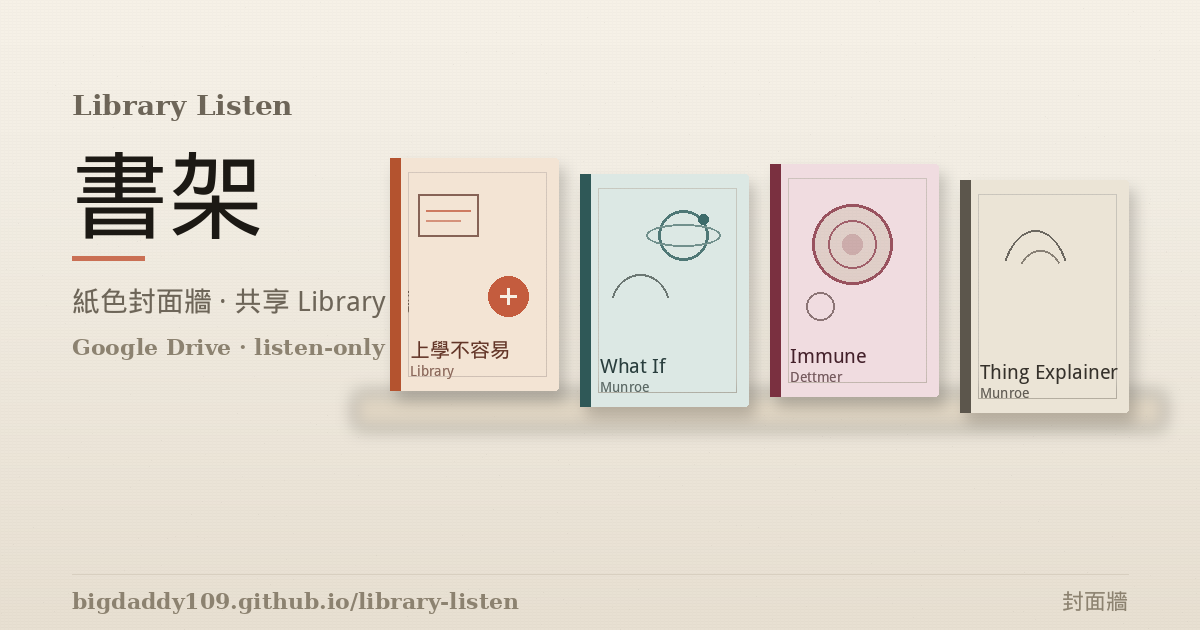
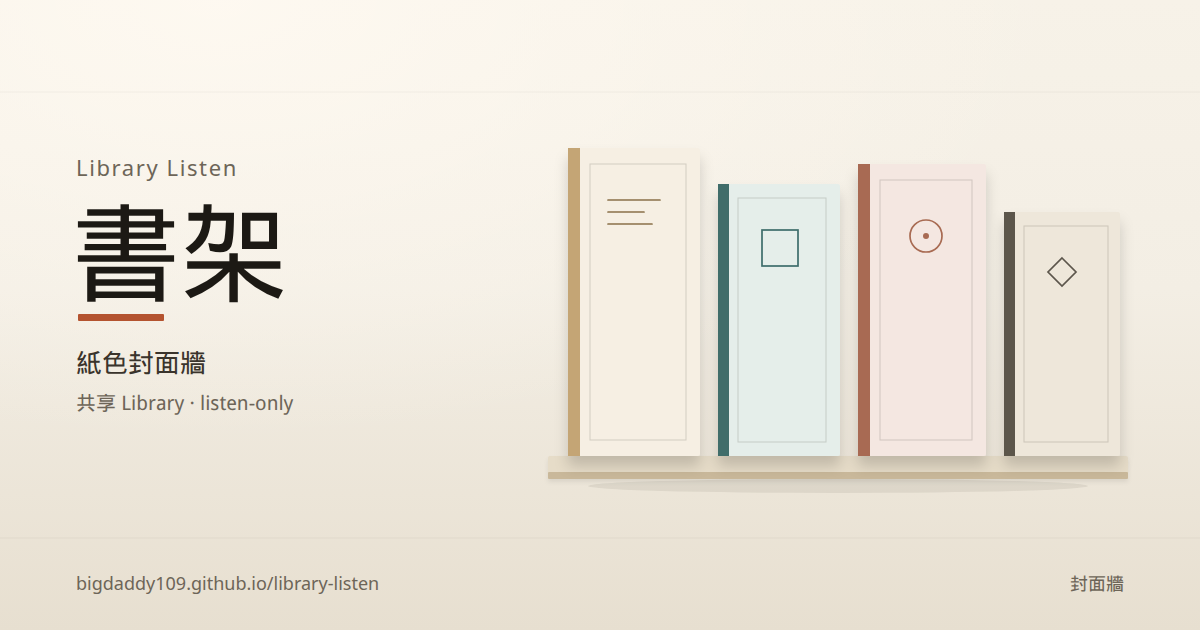
Use a generic untitled OG preview and a one-line image URL (v49) (#46)
The share image keeps the rice-paper shelf and drops book titles. Home, classic, and shelf put the absolute og:image and twitter:image on a single line so crawlers that miss split tags still see the URL.

diff --git a/docs/classic/index.html b/docs/classic/index.html
@@ -12,29 +12,20 @@
       content="Library Listen — classic dark player. The bookshelf homepage is one level up."
     />
     <meta property="og:title" content="Library Listen · Classic" />
-    <meta
-      property="og:description"
-      content="Library Listen — classic dark player. The bookshelf homepage is one level up."
-    />
-    <meta
-      property="og:image"
-      content="https://bigdaddy109.github.io/library-listen/og-image.png"
-    />
+    <meta property="og:description" content="Library Listen — classic dark player. The bookshelf homepage is one level up." />
+    <meta property="og:image" content="https://bigdaddy109.github.io/library-listen/og-image.png" />
     <meta property="og:image:width" content="1200" />
     <meta property="og:image:height" content="630" />
     <meta name="twitter:card" content="summary_large_image" />
-    <meta
-      name="twitter:image"
-      content="https://bigdaddy109.github.io/library-listen/og-image.png"
-    />
+    <meta name="twitter:image" content="https://bigdaddy109.github.io/library-listen/og-image.png" />
     <meta name="apple-mobile-web-app-capable" content="yes" />
     <meta name="mobile-web-app-capable" content="yes" />
     <meta name="apple-mobile-web-app-status-bar-style" content="black-translucent" />
     <meta name="apple-mobile-web-app-title" content="Library Listen" />
     <link rel="manifest" href="../manifest.webmanifest" />
-    <link rel="icon" href="../icon.svg?v=48" type="image/svg+xml" />
-    <link rel="apple-touch-icon" href="../apple-touch-icon.png?v=48" />
-    <link rel="stylesheet" href="../styles.css?v=48" />
+    <link rel="icon" href="../icon.svg?v=49" type="image/svg+xml" />
+    <link rel="apple-touch-icon" href="../apple-touch-icon.png?v=49" />
+    <link rel="stylesheet" href="../styles.css?v=49" />
     <title>Library Listen · Classic</title>
   </head>
   <body data-shell="classic">
@@ -43,7 +34,7 @@
         <div class="brand">
           <img
             class="brand-mark"
-            src="../icon.svg?v=48"
+            src="../icon.svg?v=49"
             width="36"
             height="36"
             alt="Library Listen"
@@ -263,6 +254,6 @@
         </div>
       </div>
     </div>
-    <script type="module" src="../app.js?v=48"></script>
+    <script type="module" src="../app.js?v=49"></script>
   </body>
 </html>

diff --git a/docs/index.html b/docs/index.html
@@ -12,30 +12,21 @@
       content="Library Listen — rice-paper bookshelf. Sign in with Google to play from the shared Library folder."
     />
     <meta property="og:title" content="書架 · Library Listen" />
-    <meta
-      property="og:description"
-      content="紙色封面牆。用 Google 登入聽共享的 Library 資料夾，或改用本機檔案。"
-    />
-    <meta
-      property="og:image"
-      content="https://bigdaddy109.github.io/library-listen/og-image.png"
-    />
+    <meta property="og:description" content="紙色封面牆。用 Google 登入聽共享的 Library 資料夾，或改用本機檔案。" />
+    <meta property="og:image" content="https://bigdaddy109.github.io/library-listen/og-image.png" />
     <meta property="og:image:width" content="1200" />
     <meta property="og:image:height" content="630" />
     <meta name="twitter:card" content="summary_large_image" />
-    <meta
-      name="twitter:image"
-      content="https://bigdaddy109.github.io/library-listen/og-image.png"
-    />
+    <meta name="twitter:image" content="https://bigdaddy109.github.io/library-listen/og-image.png" />
     <meta name="apple-mobile-web-app-capable" content="yes" />
     <meta name="mobile-web-app-capable" content="yes" />
     <meta name="apple-mobile-web-app-status-bar-style" content="default" />
     <meta name="apple-mobile-web-app-title" content="書架" />
     <link rel="manifest" href="./manifest.webmanifest" />
-    <link rel="icon" href="./icon.svg?v=48" type="image/svg+xml" />
-    <link rel="apple-touch-icon" href="./apple-touch-icon.png?v=48" />
-    <link rel="stylesheet" href="./styles.css?v=48" />
-    <link rel="stylesheet" href="./shelf/shelf.css?v=48" />
+    <link rel="icon" href="./icon.svg?v=49" type="image/svg+xml" />
+    <link rel="apple-touch-icon" href="./apple-touch-icon.png?v=49" />
+    <link rel="stylesheet" href="./styles.css?v=49" />
+    <link rel="stylesheet" href="./shelf/shelf.css?v=49" />
     <title>書架 · Library Listen</title>
   </head>
   <body class="shell-shelf" data-shell="shelf">
@@ -254,6 +245,6 @@
       </div>
     </div>
     <button type="button" id="btn-sort" class="hidden" hidden title="Sort shelf">Sort</button>
-    <script type="module" src="./app.js?v=48"></script>
+    <script type="module" src="./app.js?v=49"></script>
   </body>
 </html>

diff --git a/docs/app.js b/docs/app.js
@@ -1,4 +1,4 @@
-import { IMMUNE_CARDS } from "./immune-cards.js?v=48";
+import { IMMUNE_CARDS } from "./immune-cards.js?v=49";
 import {
   AUDIO_EXT,
   EPUB_EXT,
@@ -17,7 +17,7 @@ import {
   chapterProgress,
   saveProgress,
   shelfBadge,
-} from "./library.js?v=48";
+} from "./library.js?v=49";
 import {
   DRIVE_UNAUTHORIZED_MESSAGE,
   attachDriveMedia,
@@ -42,7 +42,7 @@ import {
   signInWithGoogle,
   signOutGoogle,
   sourceDialogActions,
-} from "./drive.js?v=48";
+} from "./drive.js?v=49";
 import {
   chapterHitLine,
   emptySearchMessage,
@@ -50,7 +50,7 @@ import {
   matchingChapterTitles,
   shelfCountLabel,
   trimQuery,
-} from "./search.js?v=48";
+} from "./search.js?v=49";
 import {
   applyAudiobookMarkers,
   chapterIndexAtTime,
@@ -65,17 +65,17 @@ import {
   resumeFileSeconds,
   snapshotChapter,
   uniqueChapterFiles,
-} from "./markers.js?v=48";
-import { shouldOfferSaveWhileListening } from "./save-prompt.js?v=48";
-import { demoCatalog, seriesMeta } from "./shelf/catalog.js?v=48";
-import { coverSvg } from "./shelf/covers.js?v=48";
-import { isIOSDevice, lockScreenActions, svgCoverToPngUrl, ARTWORK_SIZE } from "./media-session.js?v=48";
+} from "./markers.js?v=49";
+import { shouldOfferSaveWhileListening } from "./save-prompt.js?v=49";
+import { demoCatalog, seriesMeta } from "./shelf/catalog.js?v=49";
+import { coverSvg } from "./shelf/covers.js?v=49";
+import { isIOSDevice, lockScreenActions, svgCoverToPngUrl, ARTWORK_SIZE } from "./media-session.js?v=49";
 import {
   closeRiceBook,
   initRiceShelf,
   isRiceShelfPage,
   setRiceShelfLibrary,
-} from "./shelf/shelf.js?v=48";
+} from "./shelf/shelf.js?v=49";
 
 const SORT_KEY = "librarylisten.shelfSort";
 const RATE_KEY = "librarylisten.rate";

diff --git a/docs/shelf/index.html b/docs/shelf/index.html
@@ -10,25 +10,16 @@
     <meta name="theme-color" content="#f3eee4" />
     <meta name="description" content="書架已移到 Library Listen 首頁。" />
     <meta property="og:title" content="書架 · Library Listen" />
-    <meta
-      property="og:description"
-      content="紙色封面牆。用 Google 登入聽共享的 Library 資料夾，或改用本機檔案。"
-    />
-    <meta
-      property="og:image"
-      content="https://bigdaddy109.github.io/library-listen/og-image.png"
-    />
+    <meta property="og:description" content="紙色封面牆。用 Google 登入聽共享的 Library 資料夾，或改用本機檔案。" />
+    <meta property="og:image" content="https://bigdaddy109.github.io/library-listen/og-image.png" />
     <meta property="og:image:width" content="1200" />
     <meta property="og:image:height" content="630" />
     <meta name="twitter:card" content="summary_large_image" />
-    <meta
-      name="twitter:image"
-      content="https://bigdaddy109.github.io/library-listen/og-image.png"
-    />
+    <meta name="twitter:image" content="https://bigdaddy109.github.io/library-listen/og-image.png" />
     <link rel="manifest" href="../manifest.webmanifest" />
-    <link rel="icon" href="../icon.svg?v=48" type="image/svg+xml" />
-    <link rel="apple-touch-icon" href="../apple-touch-icon.png?v=48" />
-    <link rel="stylesheet" href="./shelf.css?v=48" />
+    <link rel="icon" href="../icon.svg?v=49" type="image/svg+xml" />
+    <link rel="apple-touch-icon" href="../apple-touch-icon.png?v=49" />
+    <link rel="stylesheet" href="./shelf.css?v=49" />
     <title>書架 · Library Listen</title>
     <script>
       location.replace("../");

diff --git a/docs/sw.js b/docs/sw.js
@@ -1,5 +1,5 @@
 /* Shell-only cache. Audiobook files are never cached here. */
-const CACHE = "library-listen-shell-v48";
+const CACHE = "library-listen-shell-v49";
 const DRIVE_MEDIA_PREFIX = "/drive-media/";
 const DRIVE_TOKEN_MESSAGE = "librarylisten.drive-token";
 const DRIVE_UNAUTHORIZED_MESSAGE = "librarylisten.drive-unauthorized";
@@ -15,26 +15,26 @@ self.addEventListener("message", (event) => {
 const ASSETS = [
   "./",
   "./index.html",
-  "./styles.css?v=48",
-  "./app.js?v=48",
-  "./library.js?v=48",
-  "./drive.js?v=48",
-  "./search.js?v=48",
-  "./markers.js?v=48",
-  "./save-prompt.js?v=48",
-  "./media-session.js?v=48",
-  "./epub.js?v=48",
-  "./immune-cards.js?v=48",
+  "./styles.css?v=49",
+  "./app.js?v=49",
+  "./library.js?v=49",
+  "./drive.js?v=49",
+  "./search.js?v=49",
+  "./markers.js?v=49",
+  "./save-prompt.js?v=49",
+  "./media-session.js?v=49",
+  "./epub.js?v=49",
+  "./immune-cards.js?v=49",
   "./manifest.webmanifest",
-  "./icon.svg?v=48",
-  "./apple-touch-icon.png?v=48",
+  "./icon.svg?v=49",
+  "./apple-touch-icon.png?v=49",
   "./og-image.png",
   "./classic/index.html",
   "./shelf/index.html",
-  "./shelf/shelf.css?v=48",
-  "./shelf/shelf.js?v=48",
-  "./shelf/catalog.js?v=48",
-  "./shelf/covers.js?v=48",
+  "./shelf/shelf.css?v=49",
+  "./shelf/shelf.js?v=49",
+  "./shelf/catalog.js?v=49",
+  "./shelf/covers.js?v=49",
   "./concepts/immune/skin.jpg",
   "./concepts/immune/bacteria.jpg",
   "./concepts/immune/inflammation.jpg",

diff --git a/docs/shelf/shelf.js b/docs/shelf/shelf.js
@@ -7,8 +7,8 @@ import {
   extOf,
   isBookPlayable,
   shelfBadge,
-} from "../library.js?v=48";
-import { matchingChapterTitles, chapterHitLine, trimQuery } from "../search.js?v=48";
+} from "../library.js?v=49";
+import { matchingChapterTitles, chapterHitLine, trimQuery } from "../search.js?v=49";
 import {
   COVER_MORPH,
   bookFlipFrames,
@@ -34,8 +34,8 @@ import {
   seriesMeta,
   shelfStatusLabel,
   volumeNumber,
-} from "./catalog.js?v=48";
-import { coverSvg, spineMetrics } from "./covers.js?v=48";
+} from "./catalog.js?v=49";
+import { coverSvg, spineMetrics } from "./covers.js?v=49";
 
 /* v2: the cover wall became the default; the old key mostly held the old default. */
 const VIEW_KEY = "librarylisten.shelfView.v2";
